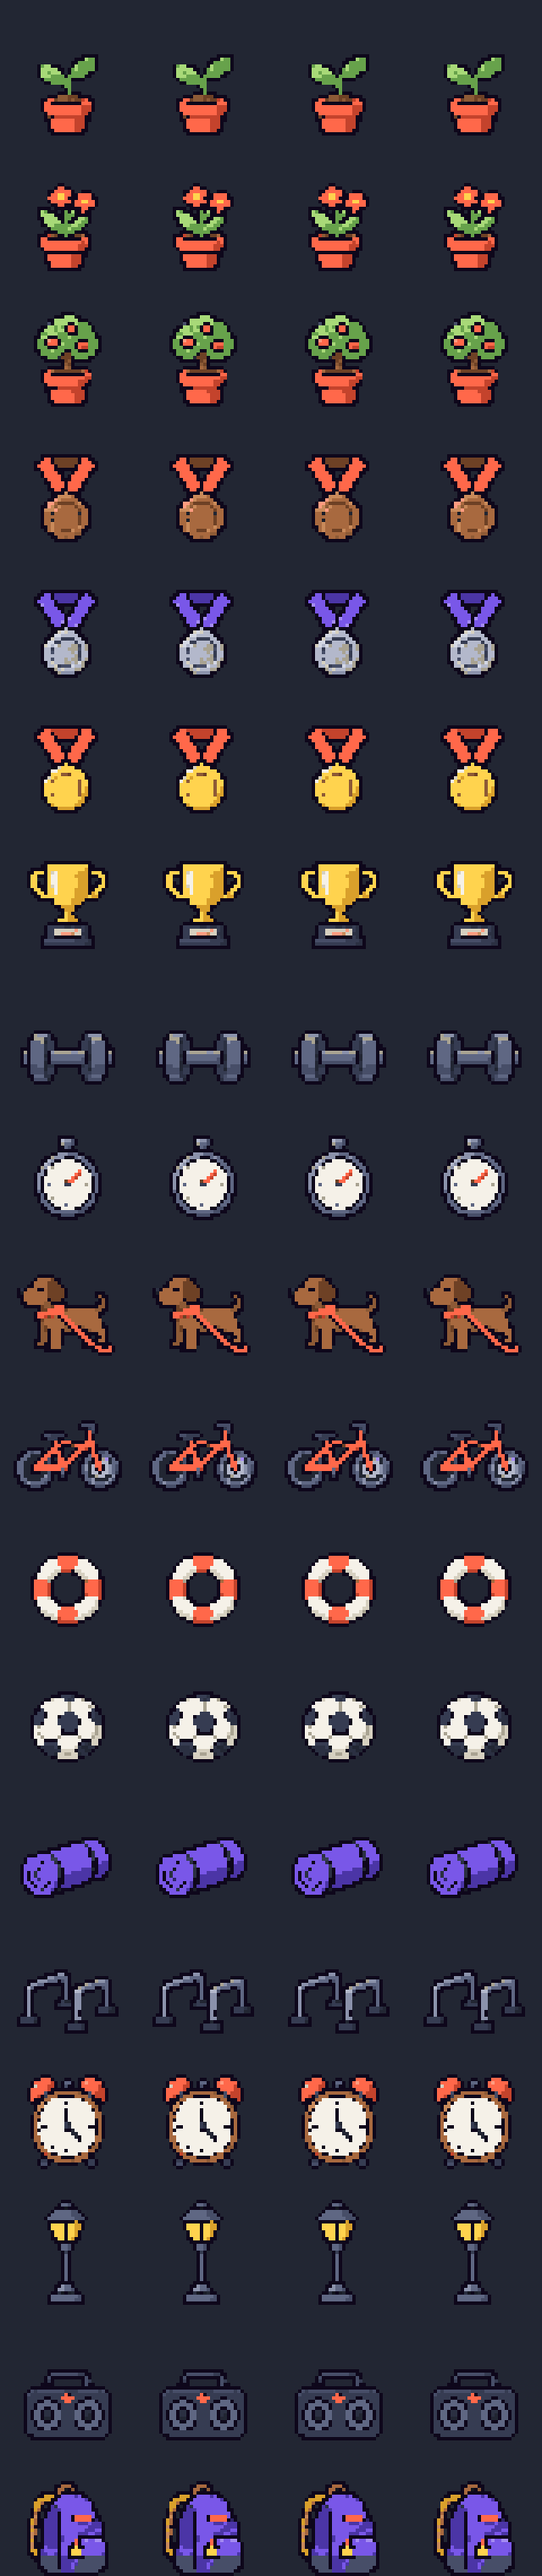
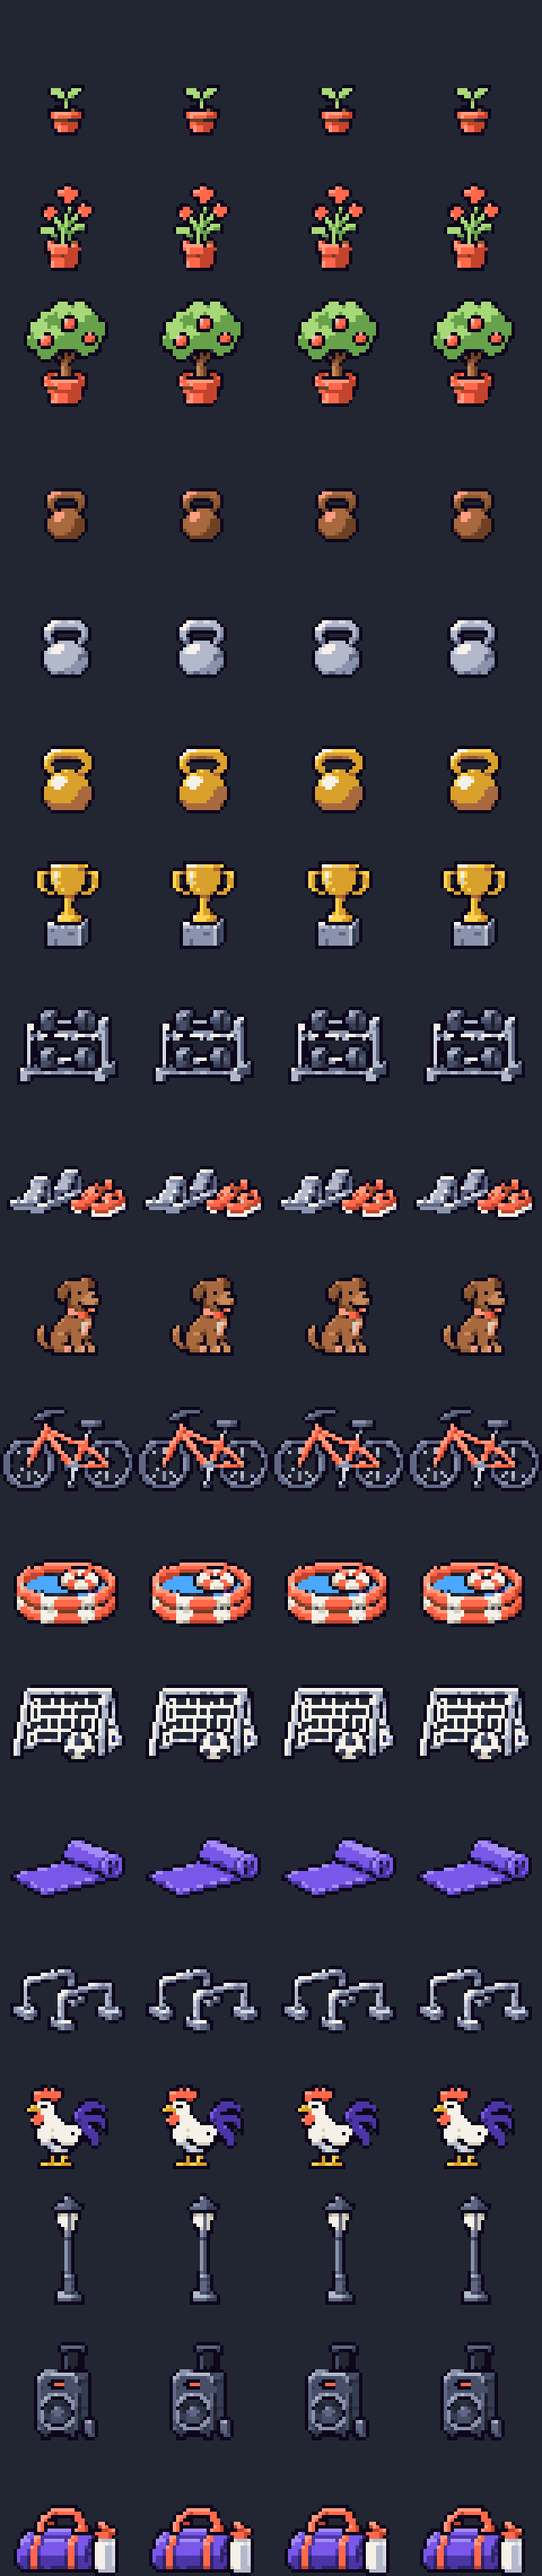
feat(jogo): arte nova dos Enfeites a partir da folha-base do ChatGPT
A folha-base (fonte/base.png) entra no atlas: os 19 objetos novos, no
chão e em escala real. O ChatGPT pôs 6 objetos na primeira linha, então
fonte_gerada.py ganha a leitura em ordem de leitura (linhas pela altura,
da esquerda para a direita, juntando manchas quase encostadas), usada na
folha-base. As caixas do atlas em enfeitesNaPraca.ts são as novas. As
tiras de animação ainda não existem: os Enfeites ficam parados.

Changed region(s): [[0.0, 0.0, 1.0, 1.0]]

diff --git a/Wrexercise/webapp/src/features/jogo/enfeitesNaPraca.ts b/Wrexercise/webapp/src/features/jogo/enfeitesNaPraca.ts
@@ -8,25 +8,25 @@ import type { Ponto } from "./useEncenacoes";
  * caixa do objeto na célula, em px do mestre 1×. Se a arte mudar, rode o build.py e cole a lista nova.
  */
 const atlas = {
-  sequencia4: { linha: 0, esquerda: 11, largura: 18, altura: 24, ms: 320 },
-  sequencia8: { linha: 1, esquerda: 11, largura: 18, altura: 26, ms: 320 },
-  sequencia12: { linha: 2, esquerda: 10, largura: 20, altura: 28, ms: 320 },
-  treinos10: { linha: 3, esquerda: 10, largura: 19, altura: 26, ms: 160 },
-  treinos50: { linha: 4, esquerda: 10, largura: 19, altura: 26, ms: 160 },
-  treinos100: { linha: 5, esquerda: 10, largura: 19, altura: 26, ms: 160 },
-  desafiocompleto: { linha: 6, esquerda: 8, largura: 24, altura: 26, ms: 180 },
-  ratodeacademia: { linha: 7, esquerda: 6, largura: 28, altura: 16, ms: 180 },
-  corredor: { linha: 8, esquerda: 10, largura: 20, altura: 25, ms: 220 },
-  andarilho: { linha: 9, esquerda: 5, largura: 29, altura: 24, ms: 200 },
-  ciclista: { linha: 10, esquerda: 4, largura: 32, altura: 21, ms: 160 },
-  peixe: { linha: 11, esquerda: 9, largura: 22, altura: 22, ms: 260 },
-  boleiro: { linha: 12, esquerda: 9, largura: 22, altura: 21, ms: 240 },
-  zen: { linha: 13, esquerda: 6, largura: 27, altura: 18, ms: 360 },
-  pesodocorpo: { linha: 14, esquerda: 5, largura: 30, altura: 19, ms: 180 },
-  madrugador: { linha: 15, esquerda: 8, largura: 24, altura: 28, ms: 240 },
-  noturno: { linha: 16, esquerda: 13, largura: 13, altura: 31, ms: 140 },
-  fimdesemana: { linha: 17, esquerda: 7, largura: 26, altura: 21, ms: 150 },
-  ecletico: { linha: 18, esquerda: 8, largura: 24, altura: 28, ms: 200 },
+  sequencia4: { linha: 0, esquerda: 14, largura: 11, altura: 15, ms: 320 },
+  sequencia8: { linha: 1, esquerda: 11, largura: 17, altura: 26, ms: 320 },
+  sequencia12: { linha: 2, esquerda: 7, largura: 25, altura: 32, ms: 320 },
+  treinos10: { linha: 3, esquerda: 13, largura: 13, altura: 16, ms: 160 },
+  treinos50: { linha: 4, esquerda: 12, largura: 15, altura: 18, ms: 160 },
+  treinos100: { linha: 5, esquerda: 12, largura: 16, altura: 20, ms: 160 },
+  desafiocompleto: { linha: 6, esquerda: 10, largura: 20, altura: 26, ms: 180 },
+  ratodeacademia: { linha: 7, esquerda: 5, largura: 30, altura: 23, ms: 180 },
+  corredor: { linha: 8, esquerda: 2, largura: 36, altura: 16, ms: 220 },
+  andarilho: { linha: 9, esquerda: 10, largura: 20, altura: 24, ms: 200 },
+  ciclista: { linha: 10, esquerda: 0, largura: 40, altura: 25, ms: 160 },
+  peixe: { linha: 11, esquerda: 4, largura: 31, altura: 20, ms: 260 },
+  boleiro: { linha: 12, esquerda: 3, largura: 34, altura: 23, ms: 240 },
+  zen: { linha: 13, esquerda: 3, largura: 34, altura: 18, ms: 360 },
+  pesodocorpo: { linha: 14, esquerda: 3, largura: 34, altura: 20, ms: 180 },
+  madrugador: { linha: 15, esquerda: 7, largura: 25, altura: 25, ms: 240 },
+  noturno: { linha: 16, esquerda: 15, largura: 10, altura: 33, ms: 140 },
+  fimdesemana: { linha: 17, esquerda: 10, largura: 19, altura: 29, ms: 150 },
+  ecletico: { linha: 18, esquerda: 4, largura: 31, altura: 21, ms: 200 },
 } as const satisfies Record<string, DesenhoEnfeite>;
 
 export type DesenhoEnfeite = {

diff --git a/pixel-art/fonte_gerada.py b/pixel-art/fonte_gerada.py
@@ -26,12 +26,14 @@ def cores_do_script(constantes, paleta_sprite):
 
 
 def recortar_grade(fonte: pathlib.Path, colunas: int, linhas: int, quantidade: int, lado: int, cores, na_base=True,
-                   altura_do_primeiro=None):
+                   altura_do_primeiro=None, em_leitura=False):
     """Devolve `quantidade` imagens lado×lado, lidas da esquerda para a direita e de cima para baixo.
 
     Cada objeto fica centrado na horizontal e, se `na_base`, apoiado na base; senão, centrado.
     Com `altura_do_primeiro`, a escala é a que deixa o primeiro objeto com essa altura em px (os quadros
     de uma tira de animação seguem a escala do objeto na folha-base); sem ela, o maior ocupa o lado.
+    Com `em_leitura`, a grade é ignorada: os objetos são lidos em ordem de leitura (linhas pela altura, e
+    da esquerda para a direita), porque o gerador nem sempre respeita a quantidade de colunas pedida.
     """
     tabela = Image.new("P", (1, 1))
     # O resto da tabela repete a primeira cor: com zeros, um preto puro da fonte cairia num índice
@@ -76,28 +78,55 @@ def recortar_grade(fonte: pathlib.Path, colunas: int, linhas: int, quantidade: i
     def juntar(a, b):
         return b if a is None else (min(a[0], b[0]), min(a[1], b[1]), max(a[2], b[2]), max(a[3], b[3]))
 
-    cw, ch = largura / colunas, altura / linhas
-    maior = max(len(m) for m, _ in manchas)
-    caixas = [None] * quantidade
-    pequenas = []
-    for mancha, caixa in manchas:
-        if len(mancha) < maior / 10:
-            pequenas.append((mancha, caixa))
-            continue
-        col = min(int((caixa[0] + caixa[2]) / 2 / cw), colunas - 1)
-        lin = min(int((caixa[1] + caixa[3]) / 2 / ch), linhas - 1)
-        if lin * colunas + col < quantidade:
-            caixas[lin * colunas + col] = juntar(caixas[lin * colunas + col], caixa)
-            for x, y in mancha:
-                dono[y][x] = lin * colunas + col
-    for i, caixa in enumerate(caixas):
-        if caixa is None:
-            sys.exit(f"célula {i + 1} de {fonte.name} está vazia")
-
     def distancia(a, b):
         dx = max(a[0] - b[2], b[0] - a[2], 0)
         dy = max(a[1] - b[3], b[1] - a[3], 0)
         return dx * dx + dy * dy
+
+    cw, ch = largura / colunas, altura / linhas
+    maior = max(len(m) for m, _ in manchas)
+    caixas = [None] * quantidade
+    pequenas = [(m, c) for m, c in manchas if len(m) < maior / 10]
+    grandes = [(m, c) for m, c in manchas if len(m) >= maior / 10]
+    if em_leitura:
+        # Manchas grandes quase encostadas são o mesmo objeto (o bloco de largada e os tênis).
+        limiar = (largura / 60) ** 2
+        grupos = []
+        for mancha, caixa in grandes:
+            perto_de = [g for g in grupos if distancia(caixa, g[1]) < limiar]
+            novo = ([mancha], caixa)
+            for g in perto_de:
+                grupos.remove(g)
+                novo = (novo[0] + g[0], juntar(novo[1], g[1]))
+            grupos.append(novo)
+        if len(grupos) != quantidade:
+            sys.exit(f"{fonte.name} tem {len(grupos)} objetos, e não {quantidade}")
+        # Uma linha nova começa quando o objeto fica todo abaixo do centro da linha atual.
+        grupos.sort(key=lambda g: (g[1][1] + g[1][3]) / 2)
+        linhas_lidas = []
+        for g in grupos:
+            atual = linhas_lidas[-1] if linhas_lidas else None
+            if atual and g[1][1] < sum((o[1][1] + o[1][3]) / 2 for o in atual) / len(atual):
+                atual.append(g)
+            else:
+                linhas_lidas.append([g])
+        ordenados = [g for linha in linhas_lidas for g in sorted(linha, key=lambda g: g[1][0])]
+        for i, (partes, caixa) in enumerate(ordenados):
+            caixas[i] = caixa
+            for mancha in partes:
+                for x, y in mancha:
+                    dono[y][x] = i
+    else:
+        for mancha, caixa in grandes:
+            col = min(int((caixa[0] + caixa[2]) / 2 / cw), colunas - 1)
+            lin = min(int((caixa[1] + caixa[3]) / 2 / ch), linhas - 1)
+            if lin * colunas + col < quantidade:
+                caixas[lin * colunas + col] = juntar(caixas[lin * colunas + col], caixa)
+                for x, y in mancha:
+                    dono[y][x] = lin * colunas + col
+    for i, caixa in enumerate(caixas):
+        if caixa is None:
+            sys.exit(f"célula {i + 1} de {fonte.name} está vazia")
 
     perto = []
     for mancha, caixa in pequenas:

diff --git a/pixel-art/enfeites/build.py b/pixel-art/enfeites/build.py
@@ -5,7 +5,8 @@ com cada objeto apoiado na base da célula: saida/enfeites.png, copiado para web
 linhas é a de ENFEITES. O quadro 1 também é o ícone da vitrine.
 
 Fontes (geradas no ChatGPT, ver prompts-chatgpt.md):
-- fonte/base.png: os 19 objetos parados, numa grade de 5×4. Uma escala só para a folha toda, então os
+- fonte/base.png: os 19 objetos parados, pedidos numa grade de 5×4 e lidos em ordem de leitura (o ChatGPT
+  nem sempre respeita as colunas). Uma escala só para a folha toda, então os
   objetos mantêm as proporções reais entre si (a árvore e o poste do tamanho de um avatar).
 - fonte/tira-NN-<conquista>.png: os 4 quadros de um objeto, numa grade de 2×2, reduzidos com a escala do
   objeto na base. Sem a tira, o quadro da base se repete e o objeto fica parado.
@@ -97,7 +98,7 @@ def recorte_para_prompt(quadro, destino):
 def main():
     cores = cores_do_script(globals(), Sprite(1, 1, palette="wrexercise").palette)
     if BASE.exists():
-        bases = recortar_grade(BASE, COLUNAS, LINHAS, len(ENFEITES), LADO, cores)
+        bases = recortar_grade(BASE, COLUNAS, LINHAS, len(ENFEITES), LADO, cores, em_leitura=True)
         print("fonte:", BASE.name)
     elif ANTIGA.exists():
         bases = [na_celula(i) for i in recortar_grade(ANTIGA, COLUNAS, LINHAS, len(ENFEITES), 32, cores)]

diff --git a/pixel-art/enfeites/prompts-chatgpt.md b/pixel-art/enfeites/prompts-chatgpt.md
@@ -2,7 +2,7 @@
 
 > Prompts para gerar no ChatGPT (geração de imagem) os 19 Enfeites (`docs/gamificacao.md` §9.1), apoiados no chão da praça e animados (`docs/decisoes/0050-enfeites-no-chao.md`). As imagens geradas são só a **fonte**: elas vão para `fonte/`, e o `build.py` recorta cada objeto, o reduz à escala do mestre da praça, o ajusta à paleta `wrexercise` e monta o atlas `saida/enfeites.png` (4 quadros × 19 linhas de 40×40), copiado para `webapp/public/`. Nunca copie uma imagem gerada direto para `saida/` ou `webapp/public/`.
 >
-> **Estado:** a folha-base e as tiras ainda não foram geradas. Sem `fonte/base.png`, o `build.py` monta o atlas com os ícones antigos de `fonte/folha.png` (do Gemini), parados.
+> **Estado:** a folha-base está em `fonte/base.png` e já está no atlas; as tiras ainda não foram geradas, então os Enfeites ficam parados. Sem `fonte/base.png`, o `build.py` usa os ícones antigos de `fonte/folha.png` (do Gemini).
 
 ## Como usar
 
@@ -141,7 +141,7 @@ pixels) and loops smoothly from frame 4 back to frame 1.
 
 ## O que o `build.py` faz com as fontes
 
-1. Folha-base: divide a imagem na grade de 5×4 e junta as manchas que não são magenta a cada célula (como em `../fonte_gerada.py`). Reduz **todas com a mesma escala**, pela cor mais comum de cada bloco, para que a maior ocupe os 40 px; assim os objetos mantêm as proporções reais. Cada objeto fica centrado e apoiado na base da célula.
+1. Folha-base: separa as manchas que não são magenta e junta as que quase se encostam (o bloco de largada e os tênis) num objeto. Lê os objetos em ordem de leitura (linhas pela altura, da esquerda para a direita), e não pela grade: o ChatGPT às vezes põe 6 objetos numa linha. Se não achar exatamente 19, para com erro. Reduz **todas com a mesma escala**, pela cor mais comum de cada bloco, para que a maior ocupe os 40 px; assim os objetos mantêm as proporções reais. Cada objeto fica centrado e apoiado na base da célula.
 2. Tira: divide em 2×2 e reduz os 4 quadros com a escala que deixa o quadro 1 com a altura do objeto na base. Cada quadro mantém a posição relativa ao quadro 1 (um rabo que balança não arrasta o corpo), e o quadro 1 é alinhado ao objeto da base.
 3. Troca cada cor pela mais próxima da paleta `wrexercise` (e das cores do script); o magenta vira transparente.
 4. Grava `saida/enfeites.png`, copia para `webapp/public/enfeites.png` e grava `preview/folha-4x.png` e `preview/animado.gif`.
